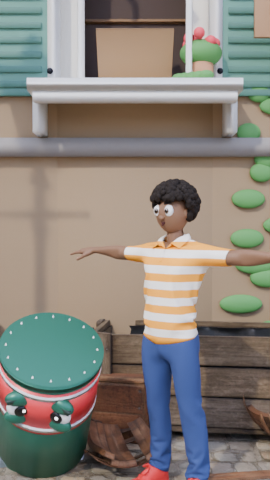
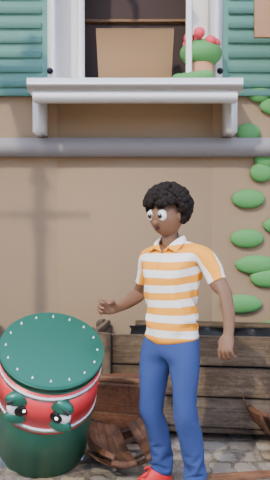
ep018: revisión Director PASA; listo para render local
Claude-Session: https://claude.ai/code/session_01LrSQNzCqj6aM3qn1tHEPiB

diff --git a/stories/story-021/reviews/anim-check.md b/stories/story-021/reviews/anim-check.md
@@ -2,15 +2,18 @@
 Rótulo fijo (CAPTION): "POV: the bollard wants pie". Duración: 312 fotogramas = 13 s. Renderizado con multi.py (una escena, varios fotogramas), no con run_level.py.
 
 Lectura SIN sonido, fotograma a fotograma:
-- 01/02 (1, 32): hombre sentado en el bolardo (1 m, negro con banda amarilla); UN ojo grande en la banda mira arriba-derecha a la tarta (tarta inclinada sobre tabla, con vapor en espiral) en la ventana. Se lee el deseo.
-- 03 (62) estirón 1: anillos telescópicos oscuros suben bajo el hombre sentado. 04 (92): se queda corto, la tarta sigue más arriba; el ojo mira hacia arriba. 05 (112): hace fuerza (ojo entornado; el temblor se aprecia poco en fotograma fijo, sí en movimiento).
+- 01/02 (1, 32): hombre sentado en el bolardo (1 m, acero verde botella con banda roja y franjas blancas reflectantes); DOS ojos pequeños con párpados y cejas en la banda miran arriba-derecha a la tarta (tarta inclinada sobre tabla, con vapor en espiral) en la ventana. Se lee el deseo.
+- 03 (62) estirón 1: anillos telescópicos oscuros suben bajo el hombre sentado. 04 (92): se queda corto, la tarta sigue más arriba; los ojos miran hacia arriba. 05 (112): hace fuerza (ojos entornados, cejas hacia dentro; el temblor se aprecia poco en fotograma fijo, sí en movimiento).
 - 06/07 (138, 152): 2.º estirón, llega al alféizar; el hombre gira hacia la ventana. 08 (168): tarta en sus manos, el alféizar queda con la tabla vacía. 09 (184): baja con la tarta.
-- 10 (204) CORTE a primer plano: hombre de pie con la tarta (cara al ~55 % del alto), bolardo a su lado. 11 (224): la tapa se abre como boca con dientes y el bolardo se inclina hacia la tarta. 12 (239): tapa cerrada, tarta desaparecida (el bocado dura ~5 fotogramas: es rápido). 13 (252): él mira sus manos vacías (Shrugging). 14 (264): ojo cerrado satisfecho.
+- 10 (204) CORTE a primer plano: hombre de pie con la tarta (cara al ~55 % del alto), bolardo a su lado. 11 (224): la tapa se abre como boca con dientes y el bolardo se inclina hacia la tarta. 12 (239): tapa cerrada, tarta desaparecida (el bocado dura ~5 fotogramas: es rápido). 13 (252): él mira sus manos vacías (Shrugging). 14 (264): ojos entornados satisfechos.
 - 15 (296) general: bolardo mirando otra vez a la ventana, OTRA tarta humeante (bucle con 01).
 
 Avisos / límites (honestos):
 - Sin clip Surprised sentado: el hombre usa Sitting Idle durante todo el estirón (agarrado a las rodillas) más cara "sorpresa" y temblor de raíz; no hay clip de sentado agarrándose. Standing Up de assets/mixamo parte del suelo, no sirve: el paso de sentado a de pie se oculta con un CORTE (fotograma 196), por lo que en el plano final no se repite la pose sentada del plano 1 (sí el bolardo, la ventana y la tarta).
 - La boca: abre la tapa con dientes, pero el interior rojo se ve poco; el bocado es breve. Revisar en vídeo.
 - Al inicio del Shrugging (f 246) el brazo queda extendido un instante (mezcla de clips).
-- El hombre ocupa ~30-35 % del alto en generales (~25 % en el final, solo medio cuerpo); ojo del bolardo justo sobre el 15 % inferior.
+- El hombre ocupa ~30-35 % del alto en generales (~25 % en el final, solo medio cuerpo); ojos del bolardo justo sobre el 15 % inferior.
 - Escenario: fachada de geometría con muro PBR beige_wall_001 (descargado), ventana abierta con marco blanco, alféizar con goterón, contraventanas con lamas, maceta de geranios, interior con estantería y luz cálida, cornisa, zócalo, puerta, farol, bajante, hiedra, banderines, letrero, + 15 modelos Poly Haven (cajas, jardineras, barriles, farolas, hidrante...), HDRI dresden_square, adoquín PBR, profundidad con f/3.2. El suelo apenas se ve en generales por el encuadre vertical.
+
+Ronda 2 (rediseño por riesgo de marca): bolardo verde/rojo/blanco sin amarillo, dos ojos con cejas (antes: amarillo y negro con un ojo). Mirada más hacia arriba. Bocado ~10 fotogramas con tapa abierta y el interior rojo con dientes visible; la tarta entra entera.
+Corrección del brazo: las manos se mantienen en la pose de sujetar (Picking Up estirado, speed 0.35) hasta F_SHRUG+10 y luego funde a Shrugging con blend de 10; el hueco sin clip causaba la pose en T. Verificados 12-15 (f 238, 244, 252, 266) y 258: ningún brazo horizontal. Ya no se usa Head Nod Yes.

diff --git a/stories/story-021/reviews/director-visual.md b/stories/story-021/reviews/director-visual.md
@@ -12,3 +12,4 @@ Hoja: scratchpad/ep018_sheet.jpg (15 fotogramas).
 - Bolardo rediseñado (verde botella, banda roja con franjas blancas, dos ojos con párpados y cejas): sin parecido con personajes con marca. PASA.
 - Pupilas hacia la tarta, bocado ~10 fotogramas con interior rojo y dientes: se lee.
 - Pendiente: brazo horizontal rígido en 12-14 (pose T) → corrección pedida.
+- Brazo corregido (12-15): manos sujetan la tarta hasta el cierre y funden a Shrugging. PASA a render.
